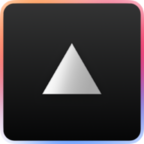
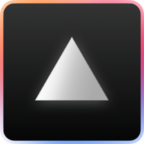
theme config

Changed region(s): [[0.2222, 0.25, 0.75, 0.75]]

diff --git a/apps/docs/theme.config.jsx b/apps/docs/theme.config.jsx
@@ -5,7 +5,205 @@ export default {
   project: {
     link: 'https://github.com/shuding/nextra'
   },
-  logo: <strong>AI Utils</strong>,
+  logo: (
+    <span className="flex gap-2 font-bold text-lg items-center select-none">
+      <svg
+        xmlns="http://www.w3.org/2000/svg"
+        height="24"
+        fill="none"
+        viewBox="0 0 1024 1024"
+      >
+        <g clipPath="url(#clip0_102_208)">
+          <rect
+            width="977.455"
+            height="977.455"
+            x="23.273"
+            y="23.273"
+            fill="url(#paint0_linear_102_208)"
+            rx="79.515"
+          ></rect>
+          <g filter="url(#filter0_di_102_208)">
+            <path
+              fill="url(#paint1_linear_102_208)"
+              d="M511.03 306.424l210.424 362.667H300.606L511.03 306.424z"
+            ></path>
+          </g>
+          <mask
+            id="mask0_102_208"
+            style={{ maskType: 'alpha' }}
+            width="1024"
+            height="1024"
+            x="0"
+            y="0"
+            maskUnits="userSpaceOnUse"
+          >
+            <rect
+              width="1000.73"
+              height="1000.73"
+              x="11.636"
+              y="11.636"
+              stroke="#000"
+              strokeWidth="23.273"
+              rx="91.151"
+            ></rect>
+          </mask>
+          <g filter="url(#filter1_f_102_208)" mask="url(#mask0_102_208)">
+            <path
+              fill="url(#paint2_linear_102_208)"
+              d="M-88.638 197.111l277.355-340.626L630.689 41.738c37.58 187.244 55.072 561.734-175.591 561.734-194.273 0-240.351-110.687-239.325-192.224-23.622 150.658-122.154 378.807-377.242 339.629-43.1-30.278 30.596-381.793 72.83-553.766z"
+            ></path>
+            <path
+              fill="url(#paint3_linear_102_208)"
+              d="M514.513 329.324l339.424 273.797 333.033 24.789c-80.41 173.273-287.78 485.83-473.947 349.874-186.167-135.958-279.862 250.156-219.226 197.766-94.394 110.83-164.922-242.362-365.58-442.213-16.878-49.841 250.498-290.109 386.296-404.013z"
+            ></path>
+            <path
+              fill="url(#paint4_linear_102_208)"
+              d="M987.377 739.387L569.385 614.252 251.741 717.175c8.717-190.768 82.117-558.433 305.986-502.955 223.869 55.478 164.166-337.305 127.908-265.904 45.342-138.248 244.558 161.995 506.075 271.134 34.52 39.752-121.84 363.188-204.333 519.937z"
+            ></path>
+          </g>
+        </g>
+        <defs>
+          <filter
+            id="filter0_di_102_208"
+            width="579.879"
+            height="521.697"
+            x="221.091"
+            y="242.424"
+            colorInterpolationFilters="sRGB"
+            filterUnits="userSpaceOnUse"
+          >
+            <feFlood floodOpacity="0" result="BackgroundImageFix"></feFlood>
+            <feColorMatrix
+              in="SourceAlpha"
+              result="hardAlpha"
+              values="0 0 0 0 0 0 0 0 0 0 0 0 0 0 0 0 0 0 127 0"
+            ></feColorMatrix>
+            <feOffset dy="15.515"></feOffset>
+            <feGaussianBlur stdDeviation="39.758"></feGaussianBlur>
+            <feComposite in2="hardAlpha" operator="out"></feComposite>
+            <feColorMatrix values="0 0 0 0 0 0 0 0 0 0 0 0 0 0 0 0 0 0 0.25 0"></feColorMatrix>
+            <feBlend
+              in2="BackgroundImageFix"
+              result="effect1_dropShadow_102_208"
+            ></feBlend>
+            <feBlend
+              in="SourceGraphic"
+              in2="effect1_dropShadow_102_208"
+              result="shape"
+            ></feBlend>
+            <feColorMatrix
+              in="SourceAlpha"
+              result="hardAlpha"
+              values="0 0 0 0 0 0 0 0 0 0 0 0 0 0 0 0 0 0 127 0"
+            ></feColorMatrix>
+            <feOffset dx="0.97" dy="13.576"></feOffset>
+            <feGaussianBlur stdDeviation="0.97"></feGaussianBlur>
+            <feComposite
+              in2="hardAlpha"
+              k2="-1"
+              k3="1"
+              operator="arithmetic"
+            ></feComposite>
+            <feColorMatrix values="0 0 0 0 0.0286285 0 0 0 0 0.0404458 0 0 0 0 0.0708333 0 0 0 0.06 0"></feColorMatrix>
+            <feBlend in2="shape" result="effect2_innerShadow_102_208"></feBlend>
+          </filter>
+          <filter
+            id="filter1_f_102_208"
+            width="2146.91"
+            height="2115.88"
+            x="-562.424"
+            y="-531.394"
+            colorInterpolationFilters="sRGB"
+            filterUnits="userSpaceOnUse"
+          >
+            <feFlood floodOpacity="0" result="BackgroundImageFix"></feFlood>
+            <feBlend
+              in="SourceGraphic"
+              in2="BackgroundImageFix"
+              result="shape"
+            ></feBlend>
+            <feGaussianBlur
+              result="effect1_foregroundBlur_102_208"
+              stdDeviation="193.939"
+            ></feGaussianBlur>
+          </filter>
+          <linearGradient
+            id="paint0_linear_102_208"
+            x1="512"
+            x2="512"
+            y1="23.273"
+            y2="1000.73"
+            gradientUnits="userSpaceOnUse"
+          >
+            <stop stopColor="#333434"></stop>
+            <stop offset="1" stopColor="#060606"></stop>
+          </linearGradient>
+          <linearGradient
+            id="paint1_linear_102_208"
+            x1="249.709"
+            x2="750.212"
+            y1="532.522"
+            y2="688.409"
+            gradientUnits="userSpaceOnUse"
+          >
+            <stop stopColor="#fff"></stop>
+            <stop offset="0.089" stopColor="#FEFEFE"></stop>
+            <stop offset="0.161" stopColor="#FCFCFC"></stop>
+            <stop offset="0.22" stopColor="#F9F9F9"></stop>
+            <stop offset="0.267" stopColor="#F5F5F5"></stop>
+            <stop offset="0.305" stopColor="#F0F0F0"></stop>
+            <stop offset="0.336" stopColor="#EAEAEA"></stop>
+            <stop offset="0.364" stopColor="#E3E3E3"></stop>
+            <stop offset="0.391" stopColor="#DCDCDC"></stop>
+            <stop offset="0.418" stopColor="#D5D5D5"></stop>
+            <stop offset="0.45" stopColor="#CDCDCD"></stop>
+            <stop offset="0.488" stopColor="#C6C6C6"></stop>
+            <stop offset="0.535" stopColor="#BEBEBE"></stop>
+            <stop offset="0.593" stopColor="#B7B7B7"></stop>
+            <stop offset="0.666" stopColor="#B0B0B0"></stop>
+            <stop offset="0.755" stopColor="#AAA"></stop>
+          </linearGradient>
+          <linearGradient
+            id="paint2_linear_102_208"
+            x1="511.03"
+            x2="511.03"
+            y1="-143.515"
+            y2="1196.61"
+            gradientUnits="userSpaceOnUse"
+          >
+            <stop stopColor="#F90"></stop>
+            <stop offset="1" stopColor="#F09"></stop>
+          </linearGradient>
+          <linearGradient
+            id="paint3_linear_102_208"
+            x1="511.03"
+            x2="511.03"
+            y1="-420.532"
+            y2="923.552"
+            gradientUnits="userSpaceOnUse"
+          >
+            <stop stopColor="#00D1FF"></stop>
+            <stop offset="1" stopColor="#0057FF"></stop>
+          </linearGradient>
+          <linearGradient
+            id="paint4_linear_102_208"
+            x1="420.072"
+            x2="1100.96"
+            y1="571.6"
+            y2="202.116"
+            gradientUnits="userSpaceOnUse"
+          >
+            <stop stopColor="#AD00FF"></stop>
+            <stop offset="1" stopColor="red"></stop>
+          </linearGradient>
+          <clipPath id="clip0_102_208">
+            <path fill="#fff" d="M0 0H1024V1024H0z"></path>
+          </clipPath>
+        </defs>
+      </svg>
+      AI Utils
+    </span>
+  ),
   useNextSeoProps: () => {
     const { title } = useConfig()
     return {
@@ -118,21 +316,14 @@ export default {
       </>
     )
   },
+  docsRepositoryBase:
+    'https://github.com/vercel-labs/ai-utils/tree/main/apps/docs',
   project: {
     link: 'https://github.com/vercel-labs/ai-utils'
   },
   footer: {
     text: (
-      <div
-        style={{
-          display: 'flex',
-          flexDirection: 'column',
-          justifyContent: 'flex-start',
-          alignItems: 'flex-start',
-          gap: '1rem',
-          fontSize: '0.8rem'
-        }}
-      >
+      <div className="flex flex-col justify-center items-center md:items-start gap-4 text-sm text-center">
         <a href="https://vercel.com/" target="_blank">
           <svg
             xmlns="http://www.w3.org/2000/svg"

diff --git a/apps/docs/styles.css b/apps/docs/styles.css
@@ -27,3 +27,15 @@ body {
     fixed 0 0 / 20px 20px radial-gradient(#313131 1px, transparent 0),
     fixed 10px 10px / 20px 20px radial-gradient(#313131 1px, transparent 0);
 }
+
+.main-title {
+  background: linear-gradient(180deg, #555, #000);
+  background-clip: text;
+  -webkit-text-fill-color: transparent;
+}
+
+.dark .main-title {
+  background: linear-gradient(180deg, #fff, #aaa);
+  background-clip: text;
+  -webkit-text-fill-color: transparent;
+}

diff --git a/apps/docs/tailwind.config.js b/apps/docs/tailwind.config.js
@@ -2,6 +2,6 @@ module.exports = {
   content: [
     './components/**/*.js',
     './pages/**/*.{md,mdx}',
-    './theme.config.js'
+    './theme.config.jsx'
   ]
 }
